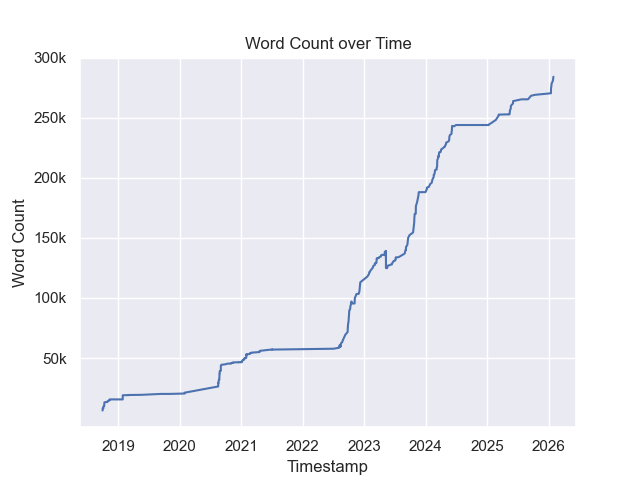
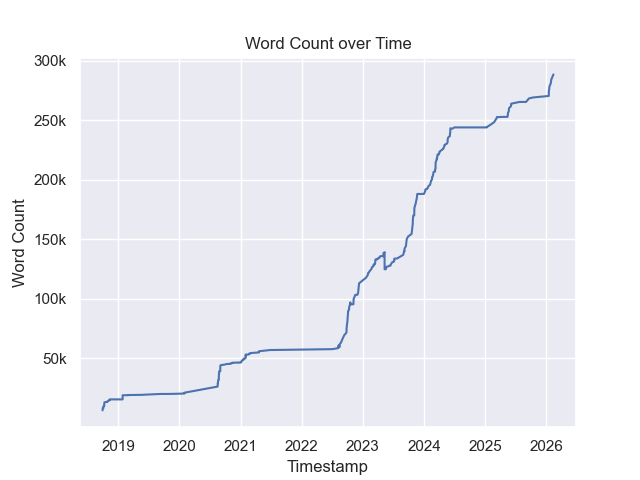
Spiraling on a Wednesday night

diff --git a/OMSCS/Courses/GA/Practice Problems/2.5 - Solving Recurrence.md b/OMSCS/Courses/GA/Practice Problems/2.5 - Solving Recurrence.md
@@ -89,3 +89,157 @@ $T(\sqrt{n})=O(\sqrt{\sqrt{n}})+1$
 $T(\sqrt{\sqrt{n}})=O(\sqrt{\sqrt{\sqrt{n}}})+1$
 
 How many levels of recursion do we need in order to reach our base-case?
+
+## 8 is Maybe Wrong?
+$T(n)=T(n-1)+n^c$ where $c \ge 1$ is a constant.
+- $a=1,b=1,d=c$
+- if $c=1$
+	- $T(n)=O(n \space log \space n)$
+- otherwise, "Any polynomial dominates any logarithm."
+	- $T(n)=O(n^c)$ **(Wrong?)**
+
+In the final case, this may be testing whether we know
+- From [[00.1 - Big-O Notation]]: "Higher-order polynomials dominate lower-order polynomials." 
+- From [[00.3 - Exponents and Logarithms]]: $a^x \cdot a^y = a^{x+y}$
+
+In this scenario, We are performing an $n^c$ operation $n$ times. Therefore, $T(n)=O(n \space log \space n)$ when $c=1$, but if $c > 1$, then the runtime is: $O(n*n^c)$, which equates to $O(n^{c+1})$. We can't ignore that extra $n$ term simply because $n^c$ dominates $n$... right?
+
+Consider the case where $c=2$.
+- $T(n)=T(n-1)+n^2$
+- $a=1, b=1, d=2$
+- The master theorem does not work here, so we either need to reason through it with a diagram or do the method from the lecture notes.
+
+
+## Ignoring the Master Theorem
+On the problems which can be solved by the master theorem, we can simply ignore the master theorem and attempt to solve them ourselves. For a given problem of the form $T(n) = aT(n/b)+O(n^d)$, you can iteratively replace $T(n/b^i)$ with $T(x)$ where $x=n/b^i$. You can also replace $O(n^d)$ with $cn^d$, and assert that the new equation is now an inequality: $T(n) \le aT(n/b)+cn^d$, for some $c>0$.
+
+0. $T(n) \le aT(n/b)+cn^d$
+1. Substitue $T(n/b)$ with $aT(x/b)+cx^d$, where $x=n/b$
+	1. $T(n) \le a\Big[ aT((n/b)/b) + c(n/b)^d \Big] + cn^d$
+	2. $= a\Big[ aT(n/b^2) + \frac{cn^d}{b^d} \Big] + cn^d$
+	3. $= a^2T(n/b^2)+\frac{acn^d}{b^d} + cn^d$
+	4. $= a^2T(n/b^2) + cn^d(1+\frac{a}{b^d})$
+2. Substitute $T(n/b^2)$ with $aT(x/b)+cx^d$, where $x=n/b^2$
+	1. $T(n) \le a^2\Big[ aT((n/b^2)/b) + c(n/b^2)^d \Big] + cn^d(1+\frac{a}{b^d})$
+	2. $= a^2\Big[ aT(n/b^3) + \frac{cn^d}{b^{2d}} \Big] + cn^d(1+\frac{a}{b^d})$
+	3. $= a^3 T(n/b^3) + \frac{acn^d}{b^{2d}} + cn^d(1+\frac{a}{b^d})$
+	4. $= a^3 T(n/b^3) + cn^d(1+\frac{a}{b^d}+\frac{a}{b^{2d}})$
+3. Substitute $T(n/b^3)$ with $aT(x/b)+cx^d$, where $x=n/b^3$ 
+	1. $T(n) \le a^3 \Big[ aT((n/b^3)/b) + c(n/b^3)^d \Big] + cn^d(1+\frac{a}{b^d}+\frac{a}{b^{2d}})$
+	2. $= a^3 \Big[ aT(n/b^4) + \frac{cn^d}{b^{d3}} \Big] + cn^d(1+\frac{a}{b^d}+\frac{a}{b^{2d}})$
+	3. $= a^4T(n/b^4) + \frac{acn^d}{b^{d3}} + cn^d(1+\frac{a}{b^d}+\frac{a}{b^{2d}})$
+	4. $= a^4T(n/b^4) + cn^d(1+\frac{a}{b^d}+\frac{a}{b^{2d}}  + \frac{a}{b^{3d}})$
+
+By now you may notice a pattern starting to form. For a given number of iterations $i$, we get:
+$$T(n) \le a^{i+1}T\left(\frac{n}{b^{i+1}}\right)+cn^d\left(1+\frac{a}{b^d} + \frac{a}{b^{2d}} + ... + \frac{a}{b^{id}} \right)$$
+Now we need to analyze this runtime. Effectively, we need to compare the growth of $a^{i+1}T\left(\frac{n}{b^{i+1}}\right)$ with the growth of $cn^d\frac{a}{b^{id}}$. This is what the master theorem does. The hardest part about the Master Theorem is finding a calculator which supports arbitrary-base logarithms.
+
+## When the Master Theorem Doesn't Work
+### Problem 7
+$T(n)=T(n-1)+2$
+
+This one is pretty obvious. The problem size reduces by 1 each iteration, and there's a constant amount of work to do each iteration. This is $O(n)$.
+
+### Problem 8
+$T(n)=T(n-1)+n^c$ where $c \ge 1$ is a constant.
+
+If $c=1$, then the result is relatively easy to calculate. 
+
+0. $T(n)=T(n-1)+n^c$
+1. $T(n)=T(n-2)+(n-1)^c+n^c$
+2. $T(n) = T(n-3)+(n-2)^c+(n-1)^c+n^c$
+3. $T(n)=1^c+2^c+3^c+...+(n-2)^c+(n-1)^c+n^c$
+
+$$T(n)=O\left(\sum_{k=1}^n k^c\right)$$
+
+The last term ($n^c$) dominates the series, but graphing $n^c$ vs $T(n)$ vs $n^{c+1}$ shows that $T(n)$ is closer to $n^{c+1}$ than it is to $n^c$. Is $n^c$ too reductive?
+
+This is probably where the rubber meets the road WRT calculating the theoretical algorithmic complexity of a function based only on the mathematical expression of how it divides and conquers. Hopefully this isn't on the test.
+
+For now we should simply cave in and assert:
+
+$$O\left(\sum_{k=1}^n k^c\right)=O(n^{c+1})$$
+
+I spent a lot of time digging around on Desmos and Wolfram, and ended up coming across some old math blogs about Power Sums, which result in crazy polynomials.
+
+- [https://ericrowland.github.io/investigations/sumsofpowers.html](https://ericrowland.github.io/investigations/sumsofpowers.html)
+- [https://mathworld.wolfram.com/PowerSum.html](https://mathworld.wolfram.com/PowerSum.html)
+
+The polynomials generated by the expression $\sum_{k=1}^n k^c$ appear to all be of degree $c+1$. Using the magic reductive powers of big-O notation, we can collapse the result to $n^{c+1}$.
+
+### Problem 9
+$T(n)=T(n-1)+c^n$ where $c \gt 1$ is a constant.
+
+This one is similar to the last one. The first term is a clear $O(n)$ descent, but at each layer, we perform a $c^n$ operation. In scientific terms, this algorithm is fucked. It'd be more profitable to find a way to convince your stakeholders to drop the feature request.
+
+0. $T(n)=T(n-1)+c^n$
+1. $T(n)=T(n-2)+c^{n-1}+c^n$
+2. $T(n)=T(n-3)+c^{n-2}+c^{n-1}+c^n$
+3. $T(n)=1+c+c^2+c^3+...+c^{n-2}+c^{n-1}+c^n$
+
+$$T(n)=O\left(\sum_{k=0}^n c^k\right)$$
+
+Unlike the previous problem, this is a geometric series. [[00.5 - Sequences, Series, and Sets#Geometric Series]]
+
+$$\sum^{n}_{k=0}c^k=\frac{c^{n+1}-1}{c-1}$$
+
+Using the magic reductive powers of big-O notation, this reduces to $O(c^n)$.
+
+### Insights from 8 and 9
+For $T(n)=T(n-1)+n^c$, the $n^c$ term dominates, but we need to account for the resulting "power sum", and take the degree of the resulting polynomial. Doing so is too much work, therefore the answer is simply $O(n^{c+1})$.
+
+For $T(n)=T(n-1)+c^n$, the $c^n$ term dominates. The expansion results in a geometric series, which means the last term dominates without reservation, therefore the answer is simply $O(c^n)$.
+
+As a reminder, geometric series are of the form $a + ax + ax^2 \space +...+ \space ax^n$.
+
+### Problem 10
+$T(n)=2T(n-1)+1$
+
+This one should be fun. For clarity, we're going to substitute in some variables to make the expansion clearer.
+
+$T(n)=aT(n-1)+c$
+- $a=2$
+- $c=1$
+
+0. $T(n)=aT(n-1)+c$
+1. $T(n)=a\Big[aT(n-2)+c\Big]+c$
+	1. $=a^2T(n-2)+ac+c$
+	2. $=a^2T(n-2)+c(1+a)$
+2. $T(n)=a^2\Big[aT(n-3)+c\Big]+c(1+a)$
+	1. $=a^3T(n-3)+a^2c+c(1+a)$
+	2. $=a^3T(n-3)+c(1+a+a^2)$
+3. $T(n)=a^3\Big[ aT(n-4)+c \Big] + c(1 + a + a^2)$
+	1. $=a^4T(n-4)+a^3c+c(1+a+a^2)$
+	2. $=a^4T(n-4)+c(1+a+a^2+a^3)$
+4. ...
+5. $T(n)=a^nT(n-n) + c(1+a+a^2+...+a^{n-1})$
+
+This is $a^n$ plus a geometric series, where the highest term is $a^{n-1}$. Therefore the first term dominates, resulting in $T(n)=O(2^n)$.
+
+### Problem 11
+$T(n)=T(\sqrt{n})+1$
+
+$T(n) \le T(n^b)+c$ where $b=0.5$ and $c=1$
+
+0. $T(n) \le T(n^b)+c$
+1. $T(n) \le T((n^b)^b)+c+c=T(n^{b^2})+2c$
+2. $T(n) \le T((n^{b^2})^b)+c+2c=T(n^{b^3})+3c$
+3. ...
+4. $T(n) \le T(n^{b^i})+ic$
+
+$$T(n)=T\left(n^{{\left(\frac{1}{2}\right)}^i}\right)+i=T\left(n^{{\frac{1}{2^i}}}\right)$$
+
+According to some helpful folks on the forum, we now need to solve for $i$ in $n^{1/2^i} = c$ where $c=2$. This will require [[00.3 - Exponents and Logarithms]].
+
+$$n^{\frac{1}{2^i}}=c$$
+$$log_cn^{\frac{1}{2^i}}=log_cc$$
+$$\frac{1}{2^i}log_cn=1$$
+$$\frac{1}{2^i}=\frac{1}{log_cn}$$
+$${2^i}={log_cn}$$
+$$log_2{2^i}=log_2{log_cn}$$
+$$i \space log_22=log_2{log_cn}$$
+$$i=log_2{log_cn}$$
+Therefore
+$$T(n)=O(log \space log \space n)$$
+
+Probably easier to memorize that $T(\sqrt{n})+1=O(log\space log \space n)$.
